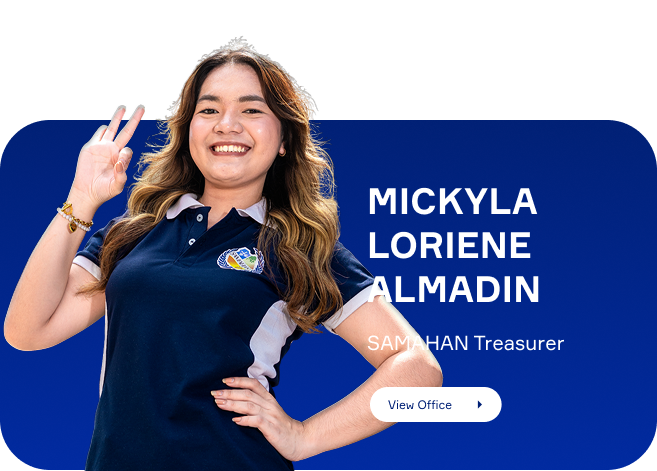
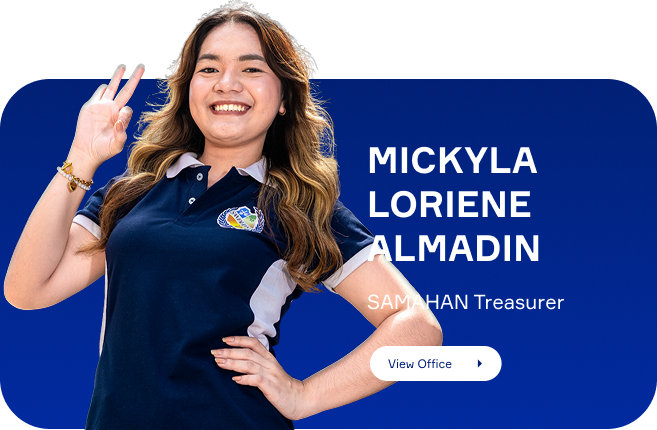
feat: added big 4 scb cards

diff --git a/src/components/pages/central-board-page.tsx b/src/components/pages/central-board-page.tsx
@@ -1,7 +1,9 @@
 import React from 'react'
+import Image from "next/image" // Import Image
 import HeroBanner from '../ui/hero-banner'
 import ProfileGroup from '../sections/profile-group'
 import ProfileCard from '../ui/profile-card'
+import Link from 'next/link'
 
 function CentralBoardPage() {
   return (
@@ -13,12 +15,74 @@ function CentralBoardPage() {
         header2="CENTRAL BOARD"
       />
 
+      <div className="w-full max-w-7xl mx-auto px-8 mt-7 md:mt-16 mb-16">
+        <div className="grid grid-cols-1 lg:grid-cols-2 gap-6 lg:gap-10 justify-items-center">
+          
+          {/* 1. Hannah Aquino */}
+          
+            <div className="w-full max-w-[400px] lg:max-w-[588px]">
+              <Link href={"/offices/osp"} className='w-full'>
+                <Image
+                  src="/images/scb/hannah-aquino.png"
+                  alt="Hannah Aquino"
+                  width={657}
+                  height={430}
+                  className="w-full h-auto object-contain"
+                  priority
+                  quality={100}
+                />
+              </Link>
+              
+            </div>
+
+          {/* 2. Ken Ryle Hinojales */}
+          <div className="w-full max-w-[400px] lg:max-w-[588px]">
+            <Link href={"/offices/osvp"} className='w-full'>
+              <Image
+                src="/images/scb/ken-hinojales.png"
+                alt="Ken Ryle Hinojales"
+                width={657}
+                height={430}
+                className="w-full h-auto object-contain"
+                priority
+                quality={100}
+              />
+            </Link>
+          </div>
+
+          {/* 3. Philipina Gutierrez */}
+          <div className="w-full max-w-[400px] lg:max-w-[588px]">
+            <Link href={"/offices/osg"} className='w-full'>
+              <Image
+                src="/images/scb/philipina-gutierrez.png"
+                alt="Philipina Gutierrez"
+                width={657}
+                height={430}
+                className="w-full h-auto object-contain"
+              />
+            </Link>
+          </div>
+
+          {/* 4. Mickyla Loriene Almadin */}
+          <div className="w-full max-w-[400px] lg:max-w-[588px]">
+            <Link href={"/offices/ost"} className='w-full'>
+              <Image
+                src="/images/scb/mickyla-almadin.png"
+                alt="Mickyla Loriene Almadin"
+                width={657}
+                height={430}
+                className="w-full h-auto object-contain"
+              />
+            </Link>
+          </div>
+
+        </div>
+      </div>
+
       <ProfileGroup 
         groupTitle='CLUSTER REPRESENTATIVES' 
         description='The Cluster Representatives are the voice of the student body from their respective schools and clusters.'
       >
-        {/* GRID CONTAINER */}
-        {/* Mobile: 2 columns | Desktop: 3 columns */}
         <div className="grid grid-cols-2 lg:grid-cols-3 gap-x-4 gap-y-12 lg:gap-x-10 justify-items-center">
           
           {/* 1. Filfred Kaizzer Calma */}
